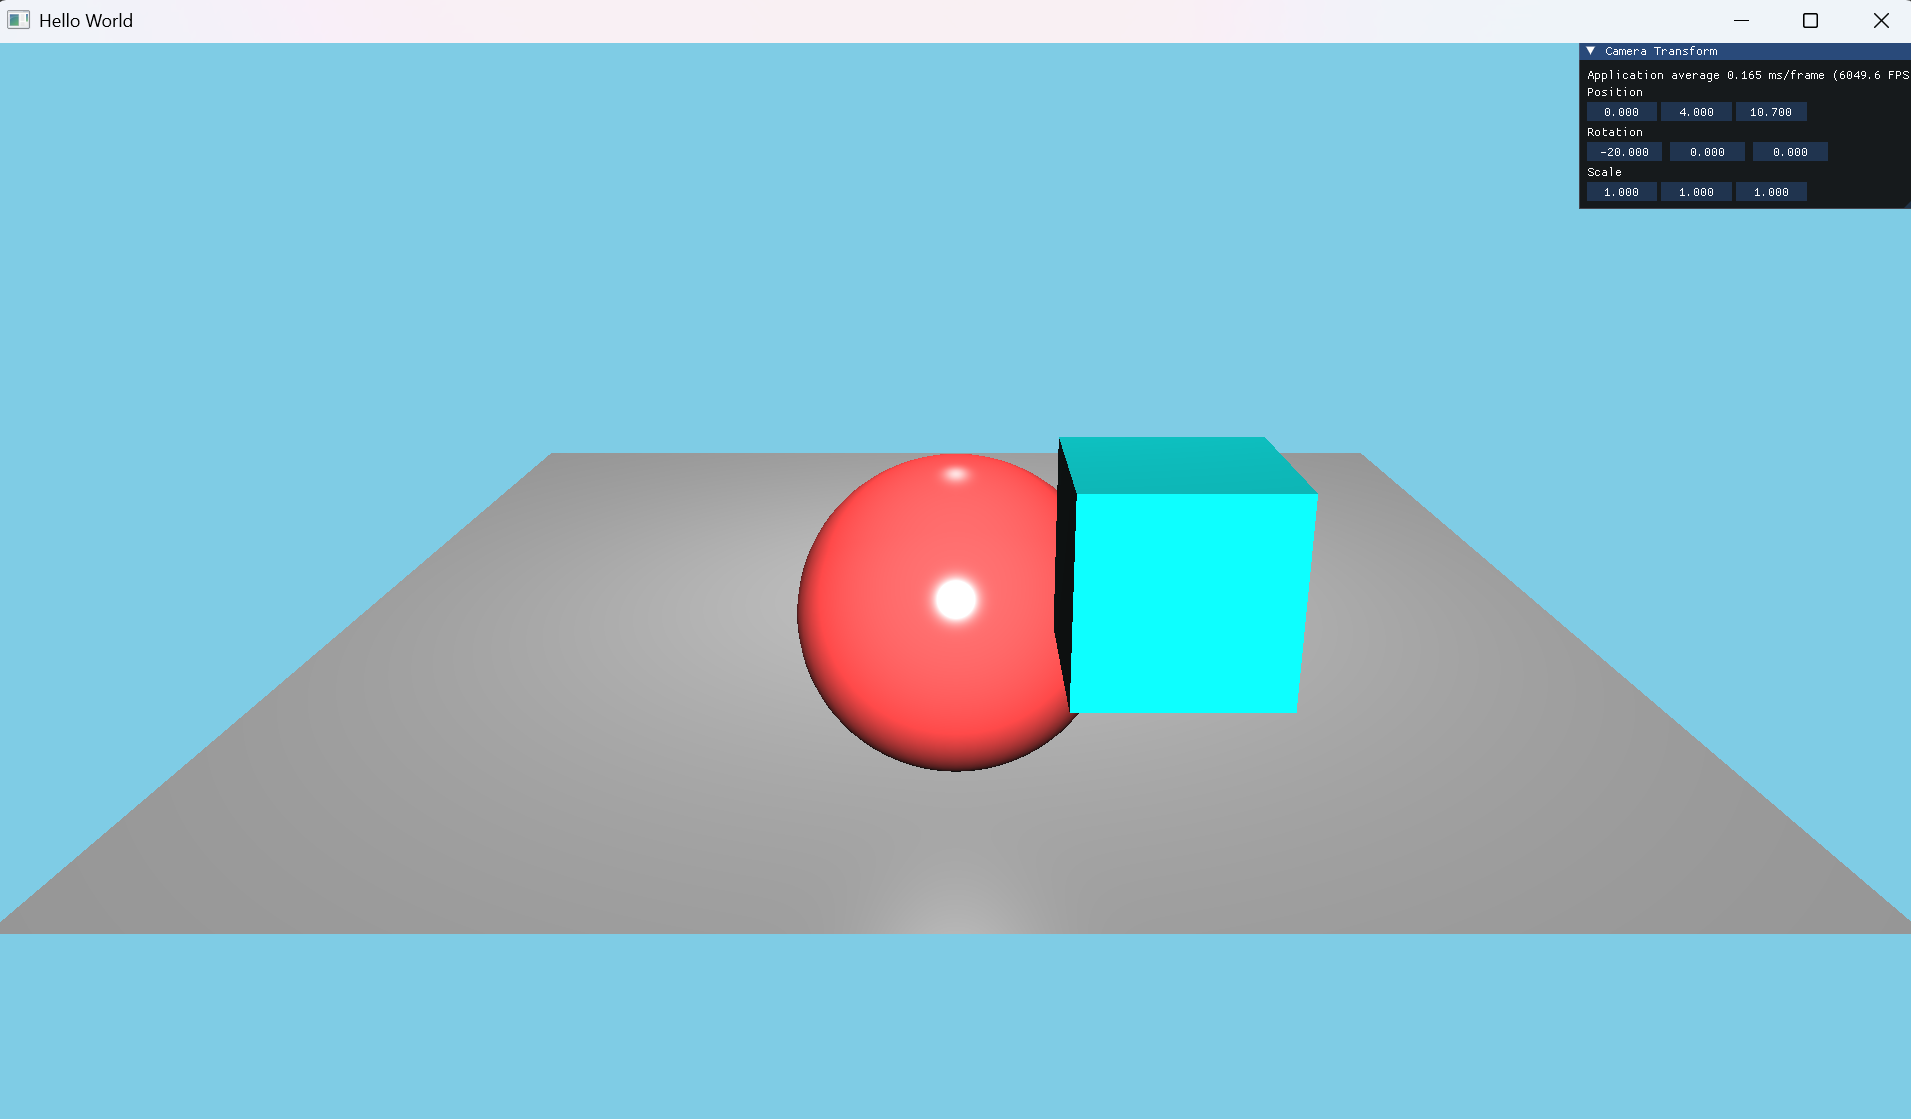
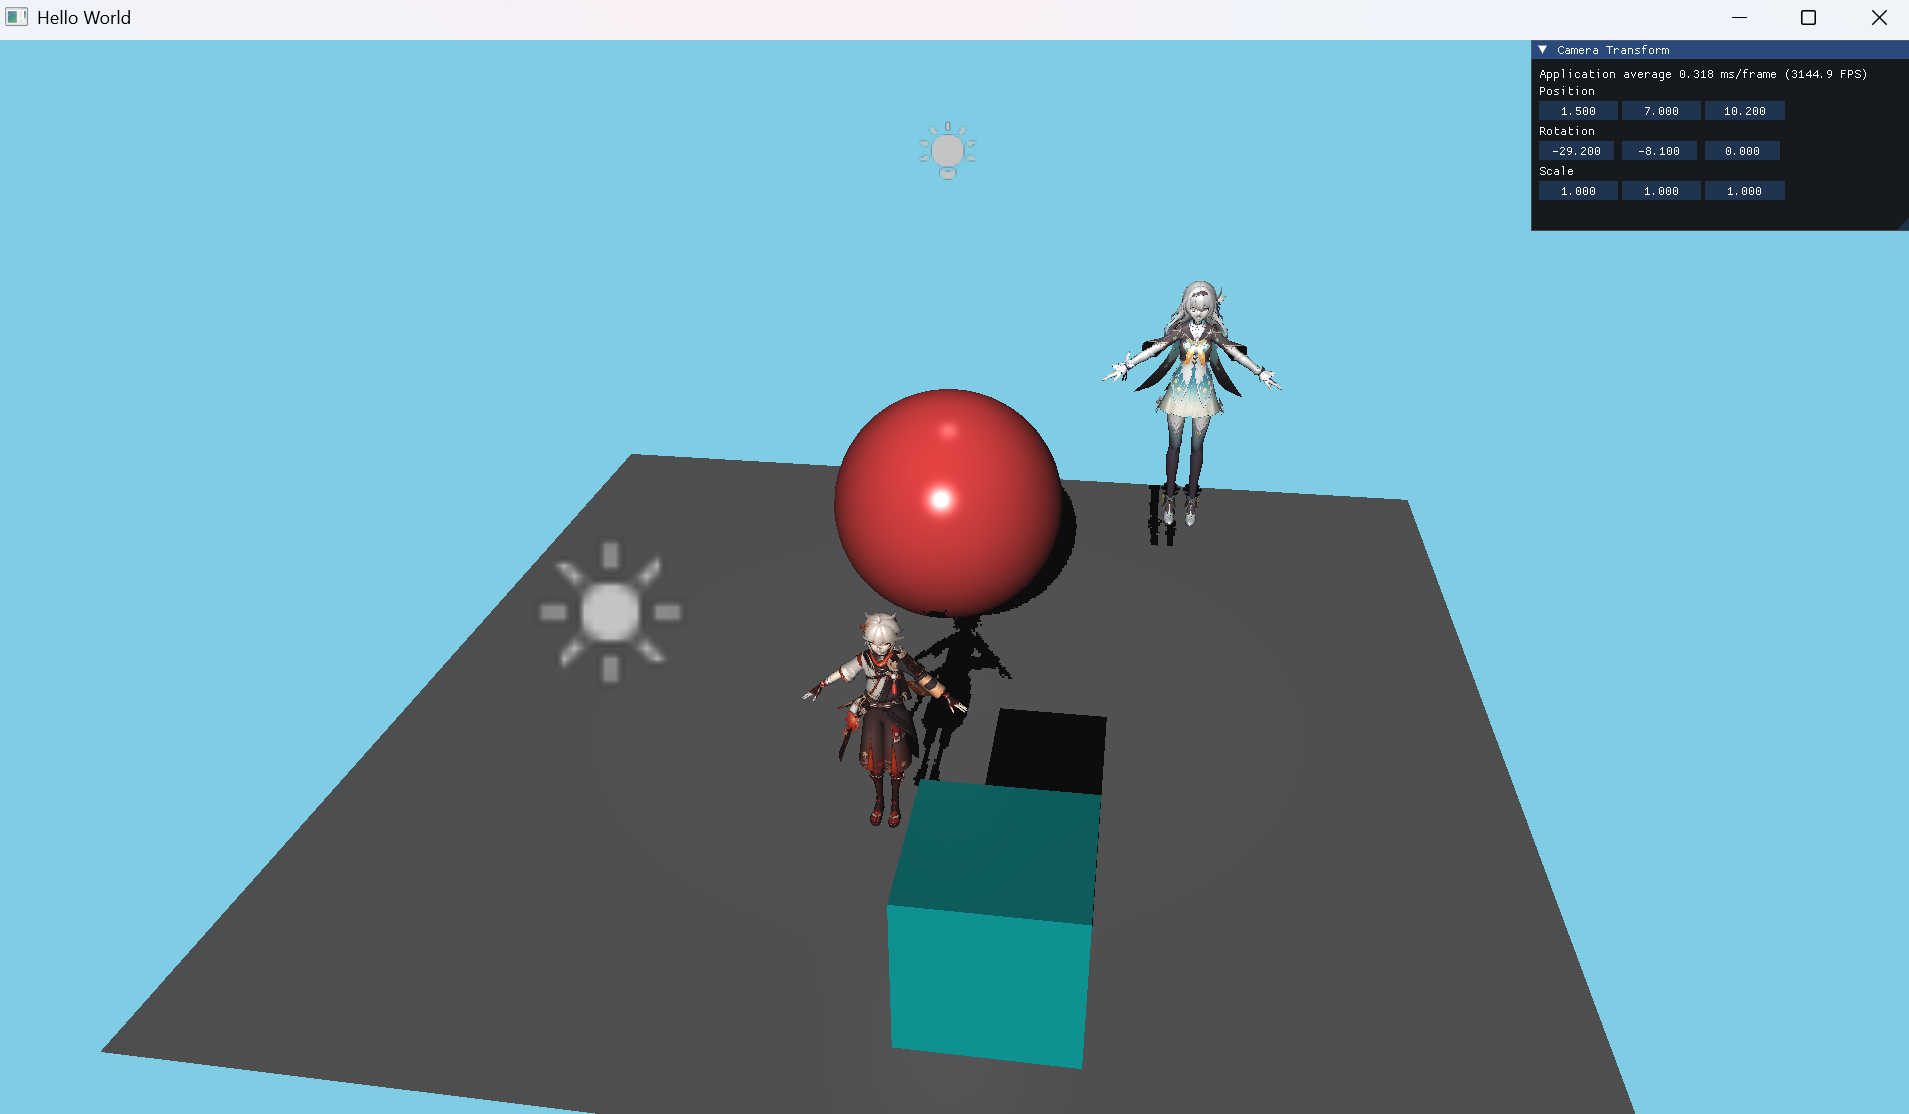
修改README.md，增加了对最新修改的说明

diff --git a/README.md b/README.md
@@ -28,6 +28,9 @@
 - 6. **调试友好**
   - `GLCall` / `GLClearError` / `GLPrintError` + `ASSERT` 宏，OpenGL 错误自动定位到文件与行号并触发断点
 - 7. **纯手写资源管线**：`VertexBuffer` / `IndexBuffer` / `VertexArray` / `Shader` / `Texture` 封装
+- 8. **模型加载（assimp）**：加载 FBX 等外部模型，支持多子网格拆分与贴图自动加载（拼接模型相对路径解决 assimp 相对路径问题）
+- 9. **光源图标 Billboard（公告牌）**：光源标记图标四边形始终面向相机，区分方向光 / 点光源，视觉上直观定位光源
+- 10. **硬阴影（Shadow Mapping）**：方向光阴影映射，先渲染深度 Pass 生成阴影贴图，主 Pass 采样阴影贴图实现实时阴影
 
 ---
 
@@ -85,9 +88,12 @@ OpenGL(Manually)/
 │       │   └── LightUBO.h          # 光源 UBO（std140 布局批量上传）
 │       ├── Scene/
 │       │   └── Scene.h             # 场景（物体管理 + 快捷创建）
+│       ├── Shadow/
+│       │   └── ShadowMap.h         # 阴影贴图（FBO + 深度纹理，保存/恢复视口）
 │       ├── Shaders/
-│       │   ├── vert.shader         # 顶点着色器
-│       │   └── frag.shader         # 片元着色器（Blinn-Phong + 多光源 UBO）
+│       │   ├── BlinnPhongShaders/  # 主渲染着色器（Blinn-Phong + 多光源 UBO + 阴影采样）
+│       │   ├── GizmoShaders/       # 光源图标（Billboard）着色器
+│       │   └── ShadowShaders/      # 阴影深度 Pass 着色器
 │       └── vendor/                 # 第三方源码（glm / imgui / stb_image）
 └── build/                          # 根级构建输出目录
 ```
@@ -130,8 +136,8 @@ OpenGL(Manually)/
 启动后程序会：
 
 1. 创建 1920×1080 窗口并初始化 OpenGL 4.x 上下文；
-2. 搭建场景：主相机 + 平面（Blinn-Phong）+ 通过 assimp 加载的 `KAZUHA.fbx` 模型 + 一个球和立方体 + 方向光 / 点光源；
-3. 进入渲染主循环，同时显示 ImGui 调试面板。
+2. 搭建场景：主相机 + 平面（Blinn-Phong）+ 通过 assimp 加载的 `KAZUHA.fbx` / `firefly.fbx` 模型 + 球和立方体 + 方向光 / 点光源；
+3. 进入渲染主循环：每帧先执行阴影深度 Pass（硬阴影），再做主渲染 Pass 并采样阴影贴图，随后绘制光源图标（Billboard），最后叠加 ImGui 调试面板。
 
 **ImGui 面板（"Camera Transform"）**
 
@@ -179,11 +185,17 @@ graph TD
 - **材质与网格分离**：`MeshRenderer` 组合 `Mesh` + `Material`；`Mesh::CreateCube/Plane/Sphere` 程序化生成顶点数据。
 - **多光源 UBO**：`LightUBO` 按 `std140` 布局分配 GPU 显存并绑定到 binding point 0；片元着色器 `LightBlock` 中 `Light lights[MAXLIGHTS]` 批量读取，支持方向光 / 点光源（点光源按距离平方衰减）。
 - **Transform.h**：使用四元数存储底层旋转并每次用增量来构建四元数，完美解决了欧拉角导致的**万向锁**问题
+- **Billboard（公告牌）**：光源图标使用一个共用四边形 Mesh，通过 `lookDir`（相机 `-forward`）、`right`、`up` 叉乘构造始终朝向相机的旋转矩阵，实现贴图永远面对相机
+- **硬阴影（Shadow Mapping）**：第一趟用 `shadowShader` 从光源视角把场景深度渲染到 `ShadowMap`（FBO + 深度纹理），主渲染时把片元世界坐标变换到光源空间（`u_LightVP`）采样阴影贴图，`currentDepth > closestDepth` 即判定为阴影
+- **模型加载**：`Model` 递归处理 assimp 节点树，每个子网格生成一个 `GameObject` + `MeshRenderer`；贴图路径拼接模型目录解决相对路径 / 中文路径导致的加载失败
 
 ### 着色器
 
-- **顶点着色器**（`vert.shader`，`#version 330`）：模型 → 世界 → 视图 → 裁剪坐标变换，法线经转置逆矩阵变换，输出世界坐标 / 法线 / UV。
-- **片元着色器**（`frag.shader`，`#version 420`）：Blinn-Phong 光照模型（环境光 + 漫反射 + 高光），支持最多 16 个光源的 UBO 循环计算。
+- **BlinnPhongShaders / vert.shader**（`#version 420`）：模型 → 世界 → 视图 → 裁剪坐标变换，法线经转置逆矩阵变换，输出世界坐标 / 法线 / UV。
+- **BlinnPhongShaders / frag.shader**（`#version 420`）：Blinn-Phong 光照模型（环境光 + 漫反射 + 高光），支持最多 16 个光源的 UBO 循环计算，并集成阴影采样（`CaculateShadow`）。
+- **GizmoShaders**：光源图标（Billboard）着色器，绘制始终面向相机的光源标记四边形。
+- **ShadowShaders / shadow_vert.shader**：阴影深度 Pass 顶点着色器，`gl_Position = u_LightProj * u_LightView * u_Model * vec4(position, 1.0)`，把顶点变换到光源裁剪空间。
+- **ShadowShaders / shadow_frag.shader**：阴影深度 Pass 片元着色器（深度已由硬件自动写入，无需额外输出）。
 
 ---
 
@@ -197,8 +209,8 @@ graph TD
 
 ## 待办 / 扩展方向
 
-- [ ] 阴影映射（Shadow Mapping）
-- [ ] 纹理贴图接入（`Texture` 类已封装，`Main.cpp` 中留有示例）
+- [x] 阴影映射（Shadow Mapping）
+- [x] 纹理贴图接入（`Texture` 类已封装，`Main.cpp` 中留有示例）
 - [ ] 相机自由飞行控制（WASD + 鼠标）
 - [ ] 法线贴图 / 环境贴图（IBL）
 - [ ] PBR 材质完善（`PBRMaterial.h` 已有基类）
